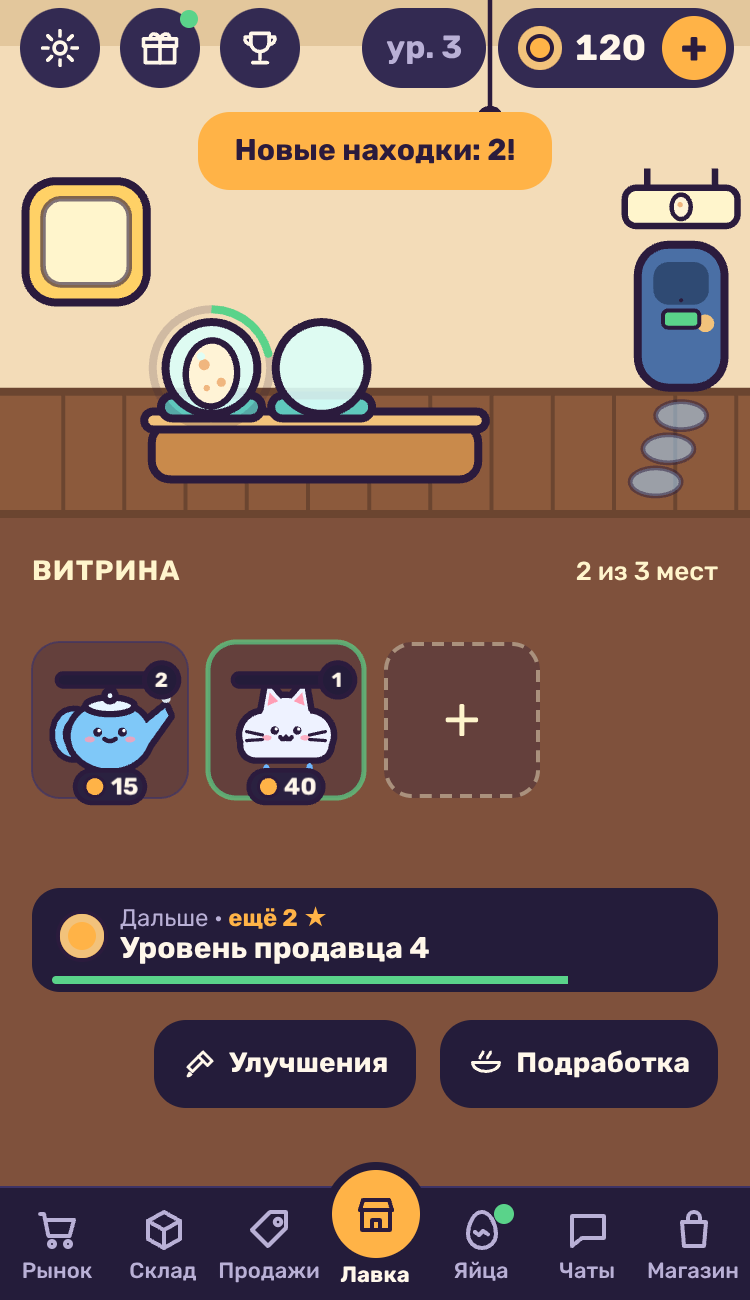
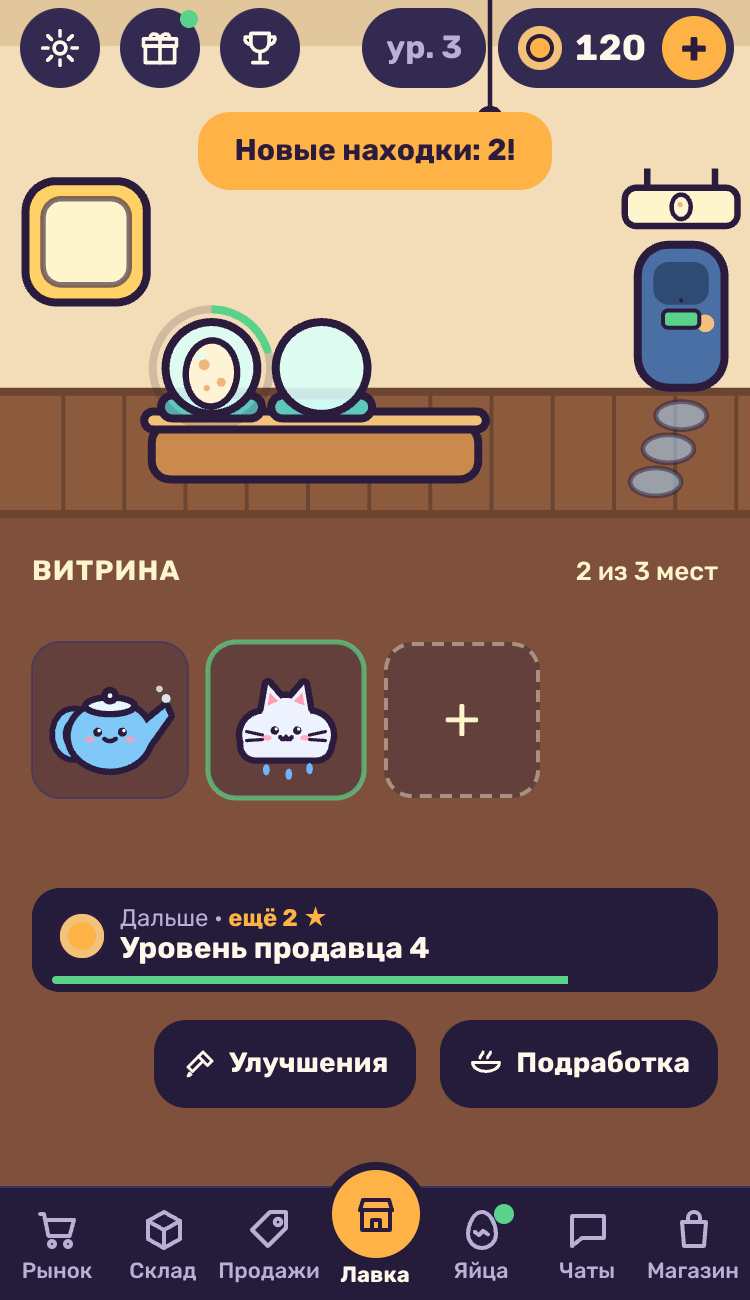
MU-12: «Витрина» строго по s1, цена на местах — вопрос Q-037
Claude-Session: https://claude.ai/code/session_01ReanFcFXX1z7pivFjYwpyh

diff --git a/src/scene/shop.ts b/src/scene/shop.ts
@@ -444,9 +444,16 @@ export function createShopView(app: Application, deps: ShopDeps): ShopView {
   /** picked: the customer at the counter bids for this one — its pill takes the offer bubble's accent color. */
   function drawTags(node: CreatureNode, cv: GameView['creatures'][number], r: number, l: ShopLayout, picked: boolean, order: 'none' | 'wanted' | 'ready'): void {
     const size = Math.max(12, r * 0.42);
-    // MU-12 (the mockup check, s1 + s3): a place of the «Витрина» strip — the pet in its rarity ring (no dash), a dark price pill
-    // at the bottom of the place and the level badge, as the cards of «Продажи».
-    const strip = Boolean(l.strip);
+    // MU-03 (s1-shop-scene, «макет главнее кода»): a place of the «Витрина» strip shows the pet in its rarity ring, no tags —
+    // the price is on «Продажи» (s3). Q-037 B (a dark price pill on the place) is one line: drop this return.
+    if (l.strip) {
+      node.tag.clear();
+      node.bar.clear();
+      node.price.text = '';
+      node.level.text = '';
+      return;
+    }
+    const strip = false;
     node.price.text = fmt(cv.price);
     node.price.style.fontSize = size;
     const coinR = size * 0.42;

diff --git a/QUESTIONS.md b/QUESTIONS.md
@@ -3,6 +3,7 @@
 Шаблон: номер · веха · вопрос · варианты · вариант по умолчанию (сборка идёт по нему, не ждёт) · как переключить · решение продюсера (дата). Продюсер отвечает одной строкой по номерам: «Q-001 A, Q-003 B, остальное по умолчанию».
 
 ## Открытые
+- Q-037 · MU · Цена и уровень на местах полосы «Витрина». В s1 у мест только питомец в кольце редкости, цена — в «Продажах» (s3); ревизор удобства просит цену и на «Лавке». A — как на s1, без цены (**по умолчанию**: «макет главнее кода»); B — тёмная плашка «◉ цена» и значок уровня у места (уже написано, выключено). Переключить: `src/scene/shop.ts` → `drawTags`, убрать ранний выход для полосы
 - Q-039 · MU · Офлайн-доход щедрый: ревизор удобства за 3 ч отсутствия получил +5 002 монет, уровень продавца 3 → 13. A — оставить, числа продюсера (`01a`), по умолчанию; B — урезать примерно вдвое. Переключить: `content/` (офлайн-доход в данных), `npm run sim:balance`
 - Q-036 · MU · Встречная цена в чате («Моя цена N», торг M3-08). В макете s2-chat-dialog только «Продать за N» и «Отказаться». A — как в макете, встречной цены нет; торг — ползунком цены до выставления (по умолчанию: «сборка = макет», два ответа понятнее на телефоне); B — вернуть «Моя цена N» третьей тёмной кнопкой рядом с «Отказаться». Переключить: `src/ui/chats.ts` (кнопка `chat-counter`, логика `game.chatCounter` осталась).
 - Q-035 · MU · Карточка «Дальше» (ближняя цель) и бегущая строка «Вести» в макете «Лавки» отсутствуют. A — не показывать, как в макете; B — вернуть «Дальше» строкой под «Витриной» (одна цель, без бегущей строки) (**по умолчанию с MU-12**: ревизор геймдизайна поставил «Цели» 2 без неё; бегущая строка так и скрыта). Переключить: `src/main.ts` (`createNextCard` в `.home-next`), `docs/допущения.md` 65.
@@ -30,7 +31,6 @@
 
 ## Решено
 - Q-038 · MU · «+» в полосе «Витрина» ведёт в «Продажи · Кого выставить» (s3: пустое место «+ Выставить»), а не покупает новое место. Ревизор удобства ждал другого. A — как в макете s3, «+» = выставить питомца (по умолчанию); B — «+» на последнем месте открывает улучшение «Витрина» в «Магазине». Переключить: `src/main.ts` → `renderShelf` · Закрыто по макету 18.10: «+» = «+ Выставить», как на s3; другой ответ продюсера — переделываю
-- Q-037 · MU · Цена и уровень на местах полосы «Витрина». В s1 у мест только питомец, в s3 у места — редкость и цена. Сделано B по сверке с макетом и ревизору: тёмная плашка «◉ цена» внизу места и значок уровня, редкость — кольцом (**по умолчанию B**); A — только кольцо, как на кадре s1. Переключить: `src/scene/shop.ts` → `drawTags` (режим полосы). Связан с Q-025: питомец уходит с места на время переписки (A по умолчанию; в «Продажах» он отдельной карточкой «Покупатель пишет», как на s3) · Закрыто по макету 18.10: цена и уровень у места, как у мест s3; другой ответ продюсера — переделываю
 - Q-032 · M4 · Названия вкладок на узком телефоне. **Закрыт MU-01 (17.10.2026, постановка вехи MU, словарь `07`):** везде «Рынок · Склад · Продажи · Лавка · Яйца · Чаты · Магазин», подпись 11 px под каждой вкладкой, при крупном шрифте переносится внутри вкладки.
 - Q-026 · UB · Вкладки по шагам. **Решение продюсера (15.10.2026, постановка M4): B** — «вкладки открываются по шагам (Q-026), «Сезон» скрыт до выхода». Сделано в M4-00: `content/nav.json` — «Инвентарь» и «Мои продажи» после первого вылупления, «Переписки» — когда напишет первый покупатель, «Рынок» с уровня продавца 3, «Магазин» — когда хватает на первое улучшение (или с уровня 2), «Сезон» скрыт; открытая вкладка остаётся открытой (флаг `open_<id>`), новая мигает один раз. Переключить: `content/nav.json → tabs`.
 - Q-027 · UB · Модель в живом темпе. **Решение продюсера (15.10.2026, постановка M4): B** — «модель баланса в живом темпе: лента, окна, переходы; пересчитать F1–F3, F11, F16». Сделано в M4-00: время интерфейса — `content/pace.json`; пороги и экономика — `docs/допущения.md` 51–53.

diff --git a/progress.md b/progress.md
@@ -8,7 +8,7 @@
 - Сделано: MU-01…MU-12 — passes: true; полный verify EXIT=0 (13 ступеней, e2e 95/95) после правок перепроверок
 - Ревизоры: удобство 3,1 → 3,5 → 3,9, геймдизайн 2,9 → 3,1, «двоек» нет (обе перепроверки — субагенты); плейтестер 3,71; сверка с макетом — расхождения починены
 - Дальше: решение продюсера по итогу MU и вопросам; M5 не начата
-- Открытые вопросы: Q-025, Q-028…Q-031, Q-033…Q-036, Q-039 (Q-037, Q-038 закрыты по макету s3)
+- Открытые вопросы: Q-025, Q-028…Q-031, Q-033…Q-037, Q-039 (Q-038 закрыт по макету s3)
 - Ждёт решения продюсера
 
 ## Шаблон записи о фиче
@@ -59,9 +59,13 @@
 - Хрупкое и обходы: 00) боком на «Лавке» тост встаёт над сценой и прячет карточку «Дальше» на 2–3 с (`:has()`); 0) пузырь над вкладкой полосы поднимается над кнопками сцены — стрелка тогда смотрит на «Подработку», кольцо — на «Чаты»; тост сдвигает экран-вкладку на ~50 px и отпускает; 1) шрифт 130 % эмулируется в тесте умножением размеров (в игре px), на живом телефоне не проверен; 2) «Витрина» — места в сцене PixiJS под комнатой, «+» и заголовок — HTML поверх по координатам сцены; 3) затемнение полосы под окном — CSS `:has()` (Chrome 105+, Safari 15.4+)
 - Не нравится в игре сейчас: «Лавка» и тёмные экраны-списки — два разных мира (плейтестер: стиль 3); редкий «Ценный» вылупляется почти как обычный — нужна сцена-событие; питомец уходит с «Витрины» на время переписки (Q-025); офлайн-доход щедрый (3 ч → +5 002, ур. 3 → 13) — числа в `content/`, на решение продюсера (Q-039)
 - Проверено / не проверено: проверено — verify 13 ступеней; автопроверка 07 (тап-зоны 44, текст 11/12/14, обрезки, наложения, одно окно, полоса, 130 %, редкость у каждого питомца) на 375×650 и 812×375; 42 кадра `docs/evidence/MU/screens`; сверка с макетом, ревизор удобства, геймдизайнер, плейтестер; не проверено — реальный телефон (правило 21), iOS Safari, `prefers-reduced-motion` вживую, VIP и эксклюзив в «Вылупился!» вживую (только вёрстка), окно оценки — только вёрстка и тест, настоящий отзыв SDK — на Яндексе
-- Расхождения с ревизорами: цена и уровень на местах «Витрины» сделаны (Q-037 B); «+» = выставить, как на s3 (Q-038, закрыт); вопросами — Q-039 (офлайн-доход), Q-025 (питомец на время переписки)
+- Расхождения с ревизорами: цена на местах «Витрины» — вопрос Q-037, по умолчанию A как на s1; «+» = выставить, как на s3 (Q-038, закрыт); вопросами — Q-039 (офлайн-доход), Q-025 (питомец на время переписки)
 - Лимит до / после: — (данных продюсера нет)
 - Ждёт решения продюсера
+
+### 2026-10-18 04:40 · MU-12 · «Витрина» строго по s1
+- Сделано: места полосы снова без цены и уровня, как на s1 (макет главнее кода); плашка цены осталась в коде выключенной — Q-037 B
+- Тесты: verify:fast; e2e mu-07, layout, sales-ub; кадры `screens/home.*`
 
 ### 2026-10-18 04:20 · MU-12 · цена на «Витрине»
 - Сделано: места полосы «Витрина» — тёмная плашка «◉ цена» и значок уровня, как места «Продаж» (s3), редкость кольцом; боком тост на «Лавке» над сценой, «Дальше» на это время скрыта

diff --git a/docs/evidence/MU/mockup-check.md b/docs/evidence/MU/mockup-check.md
@@ -53,6 +53,6 @@
 Оставлено осознанно: «Пункт» в сегменте — решение продюсера Q-033 A; кнопки сцены и полка боком (правило 9, в l1 их нет — пробел макета); тосты под шапкой — правило 17.
 
 ## «Витрина» на «Лавке» и «Продажи» после перепроверок (18.10)
-- s1-shop-scene + s3: у мест полосы питомец в кольце редкости (07 п. 47), тёмная плашка «◉ цена» и значок уровня, как у мест «Продаж» (Q-037 B); счётчик «N из M мест» = числу «+» (`screens/home.p.png`: «2 из 3 мест», один «+»); на полосе одна зелёная точка, как на s1 → совп.
+- s1-shop-scene: у мест полосы только питомец в кольце редкости (07 п. 47), без цены, как на макете (цена — вопрос Q-037); счётчик «N из M мест» = числу «+» (`screens/home.p.png`: «2 из 3 мест», один «+»); на полосе одна зелёная точка, как на s1 → совп.
 - s3-sales-slots: места 2 в ряд, бейдж редкости и цена «◉ N», «на витрине» / «покупатель пишет», «Снять с витрины» / главная «В чат»; питомец в переписке — отдельной карточкой и не входит в «N из M мест», как в макете → совп. (`screens/sales.p.png`)
-- Цена на полосе сделана (Q-037 B); «+» = выставить, как на s3 (Q-038 A); питомец на время переписки — Q-025 A. Боком тост на «Лавке» — над сценой, карточка «Дальше» на это время скрыта
+- Цена на полосе — Q-037, по умолчанию A (как s1); «+» = выставить, как на s3 (Q-038 A); питомец на время переписки — Q-025 A. Боком тост на «Лавке» — над сценой, карточка «Дальше» на это время скрыта
